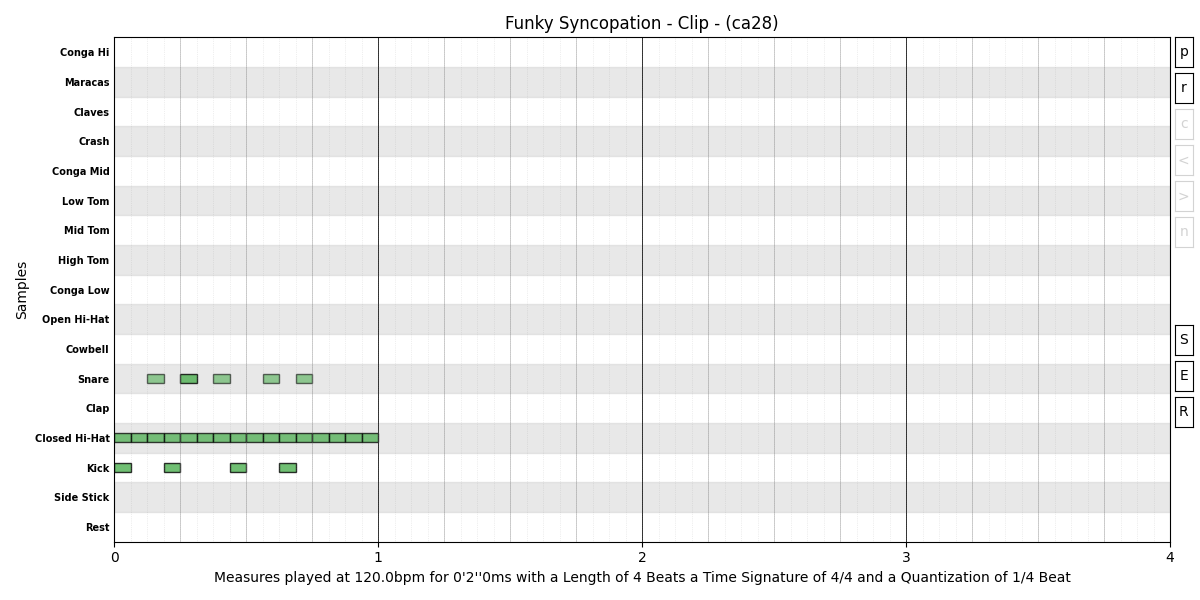
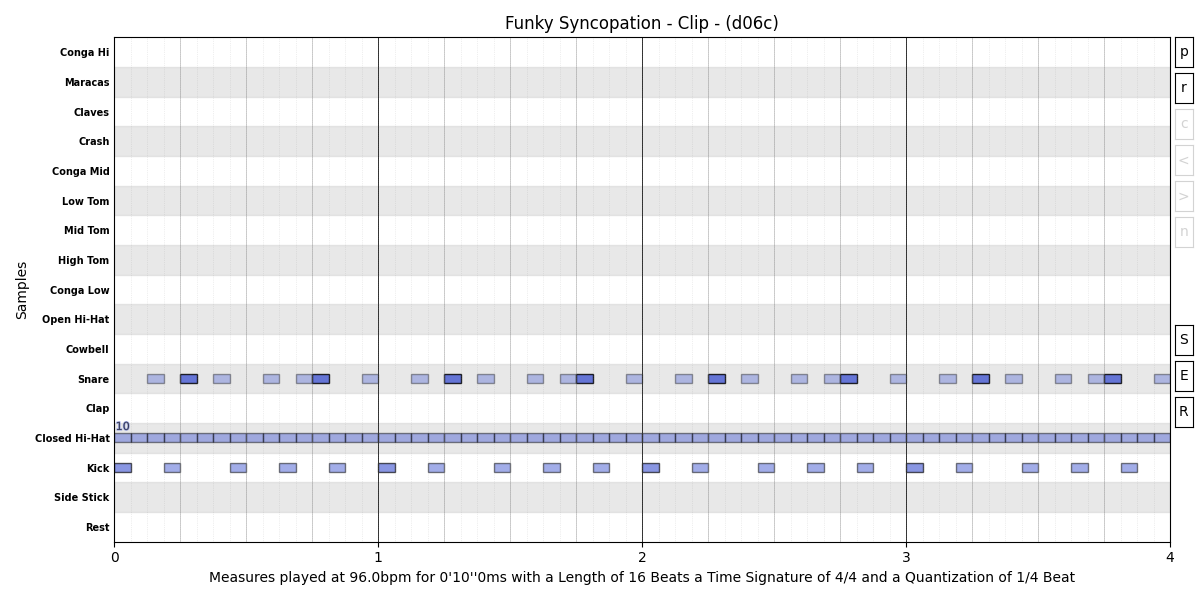
Finalized Funky Syncopation

diff --git a/doc/Funky_Syncopation.py b/doc/Funky_Syncopation.py
@@ -4,8 +4,8 @@ settings << Tempo(96)
 
 funky_syncopation: str = (
     "t:1/16_0m_2S:Snare:40, :_6S, :_9S, :_11S, :_15S,"
-    "t:1/16_0m_4S:Snare:100, :_12S,"
-    "t:1/16_0m:Closed:40," + ":," * 15 +
+    "t:1/16_0m_4S:Snare:110, :_12S,"
+    "t:1/16_0m:Closed:60," + ":," * 15 +
     "t:1/16_0m:Kick:90, :_3S::70, :_7S, :_10S, :_13S,"
 )
 
